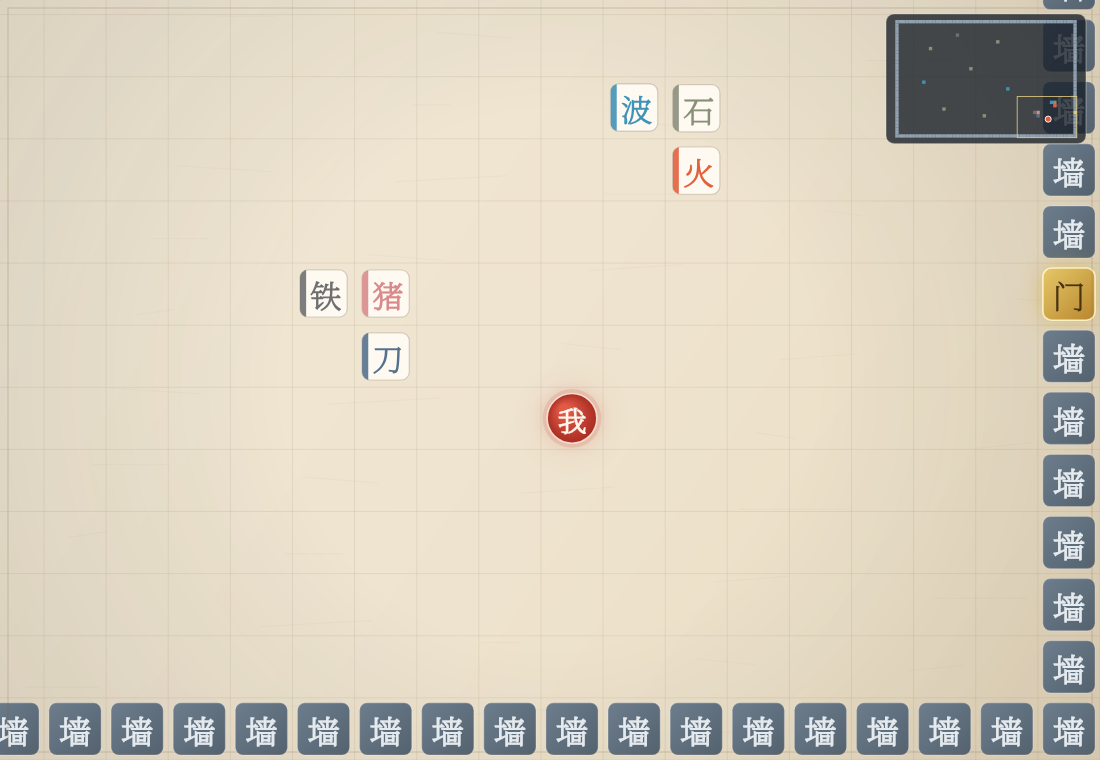
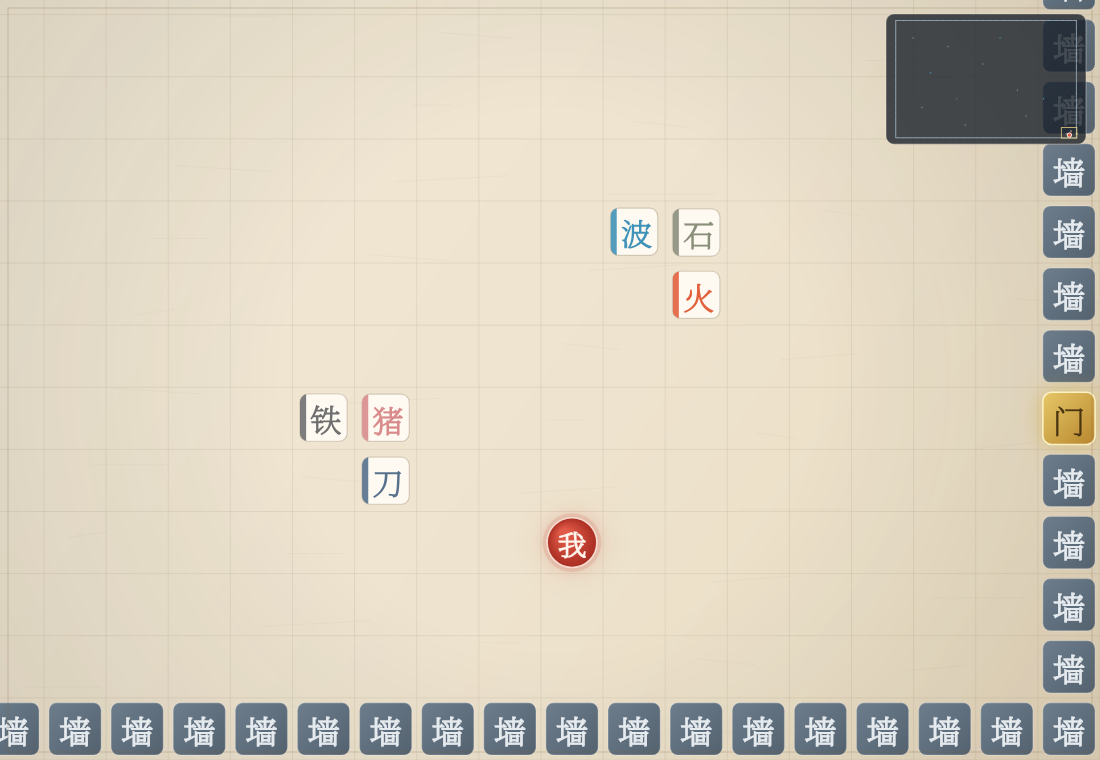
初始化：我推字 · 文字解谜小游戏（按策划案《文字游戏》实现）

diff --git a/js/engine.js b/js/engine.js
@@ -49,31 +49,34 @@ export const RULE_HINTS = [
   { a: "火", b: "蔷", text: "火 + 蔷 → 破墙而出" },
 ];
 
-/** 默认关卡（策划案场景，大地图版：54×35 ≈ 原始 17×11 的 10 倍面积） */
+/** 默认关卡（策划案场景，超大地图版：209×136 ≈ 原始 17×11 的 150 倍面积 = 10×15） */
 export const DEFAULT_LEVEL = {
-  cols: 54,
-  rows: 35,
-  // 整张地图就是一座巨大的围墙院落，门开在右墙 (53,27)
-  wallRect: { x1: 0, y1: 0, x2: 53, y2: 34 },
-  door: { x: 53, y: 27 },
-  player: { x: 45, y: 29 },
+  cols: 209,
+  rows: 136,
+  // 整张地图就是一座巨大的围墙院落，门开在右墙 (208,130)
+  wallRect: { x1: 0, y1: 0, x2: 208, y2: 135 },
+  door: { x: 208, y: 130 },
+  player: { x: 200, y: 132 },
   chars: [
-    // —— 核心谜题（右下角，和网页旧版的相对关系一致）——
-    { type: "刀", x: 42, y: 28 },
-    { type: "猪", x: 42, y: 27 },
-    { type: "铁", x: 41, y: 27 },
-    { type: "波", x: 46, y: 24 },
-    { type: "石", x: 47, y: 24 },
-    { type: "火", x: 47, y: 25 }, // 「火」位于「石」的正下方
+    // —— 核心谜题（地图右下角，与旧版相对关系一致）——
+    { type: "刀", x: 197, y: 131 },
+    { type: "猪", x: 197, y: 130 },
+    { type: "铁", x: 196, y: 130 },
+    { type: "波", x: 201, y: 127 },
+    { type: "石", x: 202, y: 127 },
+    { type: "火", x: 202, y: 128 }, // 「火」位于「石」的正下方
     // —— 远处散布的障碍/景观（不挡主线，供探索）——
-    { type: "石", x: 10, y: 8 },
-    { type: "石", x: 22, y: 14 },
-    { type: "石", x: 30, y: 6 },
-    { type: "石", x: 14, y: 26 },
-    { type: "石", x: 26, y: 28 },
-    { type: "波", x: 8, y: 18 },
-    { type: "波", x: 33, y: 20 },
-    { type: "铁", x: 18, y: 4 },
+    { type: "石", x: 20, y: 20 },
+    { type: "石", x: 60, y: 30 },
+    { type: "石", x: 100, y: 50 },
+    { type: "石", x: 140, y: 80 },
+    { type: "石", x: 30, y: 100 },
+    { type: "石", x: 150, y: 110 },
+    { type: "石", x: 80, y: 120 },
+    { type: "波", x: 40, y: 60 },
+    { type: "波", x: 120, y: 20 },
+    { type: "波", x: 170, y: 90 },
+    { type: "铁", x: 70, y: 90 },
   ],
   // 目标提示（仅用于 UI 展示）
   objectives: ["刀 + 猪 → 肤", "刀 + 肤 → 月", "月 + 铁 → 钥", "推「钥」撞「门」开门通关"],

diff --git a/地图坐标系.md b/地图坐标系.md
@@ -1,0 +1,209 @@
+# 《我推字》地图坐标系说明
+
+本文档说明网页版 `worddage` 当前超大地图（**209×136 格**，面积约为最初 17×11 版的 **150 倍 = 10×15**）
+的坐标系、关键坐标、通关路线、以及渲染/摄像机/小地图的换算方式。
+
+> 修改地图时：先看第 9 节「如何改地图」，改完运行 `node tests/engine.test.mjs` 与
+> `node tests/page.test.mjs` 验证。
+
+---
+
+## 1. 基本约定
+
+| 项目 | 约定 |
+| --- | --- |
+| 坐标单位 | **格子坐标**（整数），引擎 `engine.js` 内部完全不涉及像素 |
+| 原点 | `(0, 0)` 在**地图左上角** |
+| x 轴 | 向右递增，范围 `0 .. 208` |
+| y 轴 | 向下递增，范围 `0 .. 135`（注意**不是**数学里的向上） |
+| 地图尺寸 | `cols = 209`，`rows = 136`，共 `28424` 格 |
+| 面积倍数 | 相对最初 17×11（187 格）约 **152 倍**；相对上一版 54×35（1890 格）**约 15.04 倍** |
+| 格子边长 | 渲染时才计算（约 46~66 屏幕像素，取决于画布大小）；引擎里 1 格就是 1 个坐标单位 |
+
+世界像素（仅渲染概念）：
+
+```
+worldW = cols * cell
+worldH = rows * cell
+格子中心像素 = ((x + 0.5) * cell, (y + 0.5) * cell)
+```
+
+---
+
+## 2. 地图结构
+
+```js
+// js/engine.js → DEFAULT_LEVEL
+cols: 209,
+rows: 136,
+wallRect: { x1: 0, y1: 0, x2: 208, y2: 135 },  // 整张地图就是围墙院落
+door:     { x: 208, y: 130 },                   // 门在右墙
+player:   { x: 200, y: 132 },                   // 「我」的起点
+```
+
+| 项目 | 坐标 / 数值 |
+| --- | --- |
+| 围墙矩形 | `(0,0)` ~ `(208,135)`（整个边界都是墙） |
+| 边界格数 | `2×(209+136) − 4 = 686` 格 |
+| 门所在的墙格 | `(208,130)`（右墙；门不算墙，所以实际墙为 **685** 格） |
+| 玩家起点 | `(200,132)` |
+| 通关（钥开门） | 把「钥」推入 `(208,130)` 的门 |
+| 通关（破墙） | 用「破+墙」或「火+蔷」打出一个破口，然后**走出 `wallRect`**：`x < 0`、`x > 208`、`y < 0` 或 `y > 135` 即胜利 |
+
+> 破口位置不是固定的：它取决于玩家在哪一格打墙，破口坐标会记录进 `state.breaches`（该格墙被移除，可通行）。
+
+---
+
+## 3. 核心谜题坐标（右下角）
+
+| 元素 | 坐标 | 说明 |
+| --- | --- | --- |
+| 我（玩家起点） | `(200, 132)` | 底部靠右 |
+| 刀 | `(197, 131)` | 猪的正下方一格 |
+| 猪 | `(197, 130)` | 与「钥」最终推行的行同一行 `y=130` |
+| 铁 | `(196, 130)` | 猪的左边一格 |
+| 波 | `(201, 127)` | |
+| 石 | `(202, 127)` | |
+| 火 | `(202, 128)` | **「火」在「石」的正下方**（`fire.y = stone.y + 1`，测试已断言） |
+| 门 | `(208, 130)` | 右墙 |
+
+关键行：**`y = 130`**（合成出的「钥」在这一行，向右一路推到门；`x=198..207` 必须保持空）。
+
+相邻关系（推字方向的依据）：
+
+```
+     x: 196      197      198 …… 207   208
+y=130:  铁        猪/月/钥(合成位置)   …空…   门
+y=131:            刀
+y=132:  (195,132)…(200,132 我)
+```
+
+---
+
+## 4. 反应产物坐标规则
+
+反应发生在「被推的字」与「目标字」相撞的格子；产物位置规则：
+
+| 反应 | 产物位置 |
+| --- | --- |
+| 刀 + 猪 | 「肤」出现在**猪的位置** |
+| 刀 + 肤 | 「月」出现在**肤的位置** |
+| 刀 + 波 | 「水」出现在**波的位置**；「皮」放在波周围的第一个空位 |
+| 月 + 铁 | 「钥」出现在**月的位置** |
+| 皮 + 石 | 「破」出现在**皮的位置** |
+| 水 + 墙 | 「蔷」出现在**墙的位置**（墙被移除） |
+| 破 + 墙 / 火 + 蔷 | 双方移除，该格变成**破口**（可通行） |
+
+本关卡的预期链：
+
+```
+刀(197,131) 撞 猪(197,130)  → 肤(197,130)
+刀(197,131) 撞 肤(197,130)  → 月(197,130)
+铁(196,130) 撞 月(197,130)  → 钥(197,130)
+钥 沿 y=130 向右推 11 次   → 撞门(208,130) 胜利
+```
+
+---
+
+## 5. 通关路线（22 步）
+
+按键序列（L=左, R=右, U=上, D=下）：
+
+```
+L L L U U L L U U + R × 13
+```
+
+坐标推演：
+
+| 步 | 操作 | 结果 |
+| --- | --- | --- |
+| 1~3 | `L L L` | 「我」`(200,132) → (197,132)` |
+| 4 | `U` | 推「刀」撞「猪」→「肤」出现在 `(197,130)`，刀停在 `(197,131)`，我原地 |
+| 5 | `U` | 推「刀」撞「肤」→「月」出现在 `(197,130)` |
+| 6~7 | `L L` | 我 `(197,132) → (196,132) → (195,132)` |
+| 8~9 | `U U` | 我 `(195,132) → (195,131) → (195,130)` |
+| 10 | `R` | 推「铁」撞「月」→「钥」出现在 `(197,130)`，我停在 `(195,130)` |
+| 11 | `R` | 我走到 `(196,130)` |
+| 12~21 | `R × 10` | 「钥」`197 → 207`，我 `196 → 206` |
+| 22 | `R` | 「钥」撞门 `(208,130)` → **通关（door）** |
+
+> 这一路线会顺带把「刀」留在 `(197,131)`，不影响推钥。
+
+---
+
+## 6. 装饰障碍坐标（不挡主线，供探索）
+
+| 元素 | 坐标 |
+| --- | --- |
+| 石 | `(20,20)`、`(60,30)`、`(100,50)`、`(140,80)`、`(30,100)`、`(150,110)`、`(80,120)` |
+| 波 | `(40,60)`、`(120,20)`、`(170,90)` |
+| 铁 | `(70,90)` |
+
+> 这些字都可以被推动/参与反应；它们都在主线（`x ≥ 195, y ≥ 127`）之外，不会挡住 22 步路线。
+
+---
+
+## 7. 渲染坐标换算（`js/art.js`）
+
+```js
+VIEW_COLS = 17;  VIEW_ROWS = 11;          // 屏幕大约显示 17×11 格
+
+// 1) 缩放：1 格在屏幕上的像素大小
+cell = min((width  - 2*padX) / VIEW_COLS,
+           (height - 2*padY) / VIEW_ROWS);
+
+// 2) 摄像机：让「我」居中，并夹在世界范围内
+targetX = (player.x + 0.5) * cell - width  / 2;
+camX = worldW <= width  ? (worldW - width ) / 2 : clamp(targetX, 0, worldW - width);
+// camY 同理
+
+// 3) 世界 → 屏幕
+screenX = (gx + 0.5) * cell - camX;   // gx,gy 为格子坐标
+screenY = (gy + 0.5) * cell - camY;
+```
+
+因此屏幕里只能看到整张大地图的一角；角色移动时 `camX/camY` 平滑跟随。
+
+## 8. 小地图换算
+
+右上角小地图把整张地图压缩绘制：
+
+```js
+mw = min(200, max(130, width * 0.2));   // 小地图宽
+mh = mw * rows / cols;                   // 等比高
+s  = min((mw - 12) / cols, (mh - 12) / rows); // 每个格子在小地图上的尺寸
+// 格 (x,y) 在小地图上的位置：
+mx = ox + x * s;
+my = oy + y * s;
+```
+
+小地图上：墙=灰蓝、门=金色、字=该字颜色、破口=棕色、玩家=红点、黄框=当前镜头视野。
+
+---
+
+## 9. 如何改地图
+
+1. 打开 `js/engine.js`，修改 `DEFAULT_LEVEL`：
+   - `cols` / `rows`：地图尺寸
+   - `wallRect`：围墙矩形（目前等于整张地图）
+   - `door` / `player`：门与起点坐标
+   - `chars`：初始字列表 `{ type, x, y }`
+2. 若移动核心谜题：保持「猪/月/钥」与「门」**同一行**，且「钥 → 门」之间的一行格子为空，否则 22 步路线会断；
+3. 修改后运行：
+
+```bash
+node tests/engine.test.mjs   # 引擎规则 / 坐标 / 通关路线 / 摄像机
+node tests/page.test.mjs     # 页面冒烟测试
+```
+
+---
+
+## 10. 与旧版坐标对照
+
+| 版本 | 尺寸（格） | 面积 | 面积倍数 | 门 | 玩家起点 | 「火」坐标 |
+| --- | --- | --- | --- | --- | --- | --- |
+| 初版 | 17×11 | 187 | 1× | `(12,8)` | `(7,8)` | `(9,3)` |
+| 上一版（10×） | 54×35 | 1890 | ≈10.1× | `(53,27)` | `(45,29)` | `(47,25)` |
+| **当前版（150×）** | **209×136** | **28424** | **≈152×** | `(208,130)` | `(200,132)` | `(202,128)` |
+
+> 注：「火」始终在「石」的正下方（`y = stone.y + 1`），坐标随整体平移。

diff --git a/README.md b/README.md
@@ -6,12 +6,14 @@
 玩法与规则完全来自 `文字游戏/策划demo.docx`：
 「墙」围成长方形，只在右墙留一个「门」；「我」可以推动除「墙」「门」以外的字；两字相撞按规则反应。
 
-## 大地图与摄像机
+> 地图坐标、关键坐标点、通关路线换算等详见 → [地图坐标系.md](地图坐标系.md)
 
-- 地图为 **54×35 格**（约为最初 17×11 关卡的 **10 倍面积**），屏幕一次只能看到约 **17×11 格**
+## 超大地图与摄像机
+
+- 地图为 **209×136 格**（约为最初 17×11 关卡的 **150 倍面积 = 10×15**），屏幕一次只能看到约 **17×11 格**
 - **摄像机跟随「我」**：移动时镜头平滑跟随；靠近地图边缘时镜头会夹紧，不会露出地图外
 - 右上角有**小地图**：显示整张大地图、玩家位置、门与当前镜头视野
-- 主解法（22 步）：`刀+猪→肤`、`刀+肤→月`、`月+铁→钥`，再把钥沿最下面一行推到右侧的门
+- 门在右墙 `(208,130)`，玩家起点 `(200,132)`；主解法（22 步）：`刀+猪→肤`、`刀+肤→月`、`月+铁→钥`，再把钥沿 `y=130` 一行推到右侧的门
 
 ## 怎么玩
 
@@ -86,6 +88,7 @@ npm test
 worddage/
 ├── index.html          # 页面结构
 ├── style.css           # 水墨/宣纸风格样式
+├── 地图坐标系.md        # 地图坐标系、关键坐标、通关路线、渲染换算
 ├── js/
 │   ├── engine.js       # 纯逻辑：移动/推字/反应规则/胜负/撤销（可独立测试）
 │   ├── art.js          # Canvas 渲染：纸张、字符、特效
